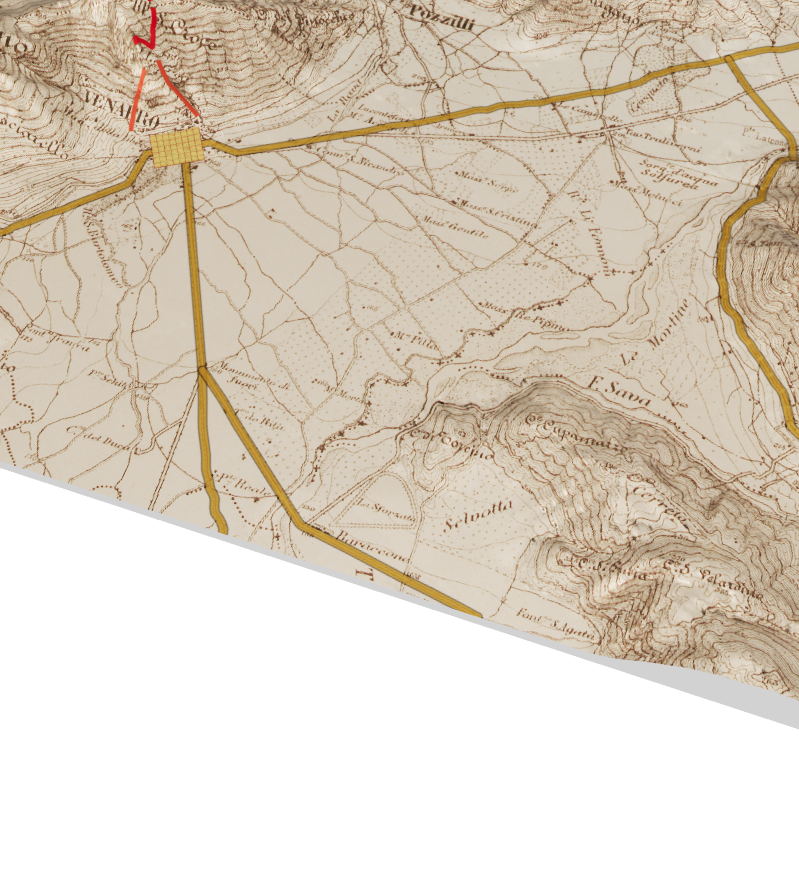
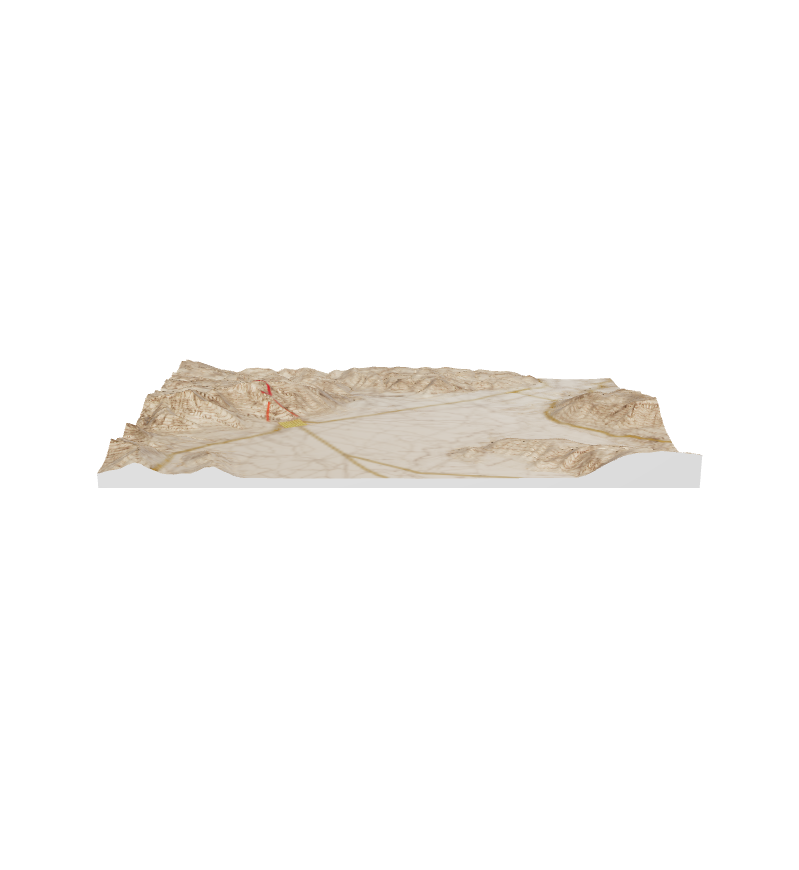
1

diff --git a/santa_croce.html b/santa_croce.html
@@ -31,7 +31,7 @@
   </head>
   <body>
     <!-- <model-viewer> HTML element -->
-    <model-viewer src="santa_croce.glb" camera-controls ar ar-modes="scene-viewer webxr quick-look" camera-orbit="19.14deg 26.64deg 1.354m" poster="poster.png">
+    <model-viewer src="santa_croce.glb" camera-controls ar ar-modes="scene-viewer webxr quick-look" camera-target="0.07597m -0.05m -0.1m" camera-orbit="3.786e-15deg 75deg 1.692m" min-camera-orbit="auto auto auto" max-camera-orbit="auto auto 1.692m" poster="poster.png">
       <button class="Hotspot" slot="hotspot-1" data-position="-0.11687637718781468m 0.8474054305248115m 0.017149647212407262m" data-normal="0.39588327010008056m 0.8026669780229863m 0.44609658017778386m" data-visibility-attribute="visible">
           <div class="info">Mura megalitiche di epoca sannitica</div>
       </button><button class="Hotspot" slot="hotspot-2" data-position="-0.11158203650608825m 0.81520768234537m 0.07818666228194948m" data-normal="0.12532103070633027m 0.9635179238200425m 0.23649069694222147m" data-visibility-attribute="visible">
